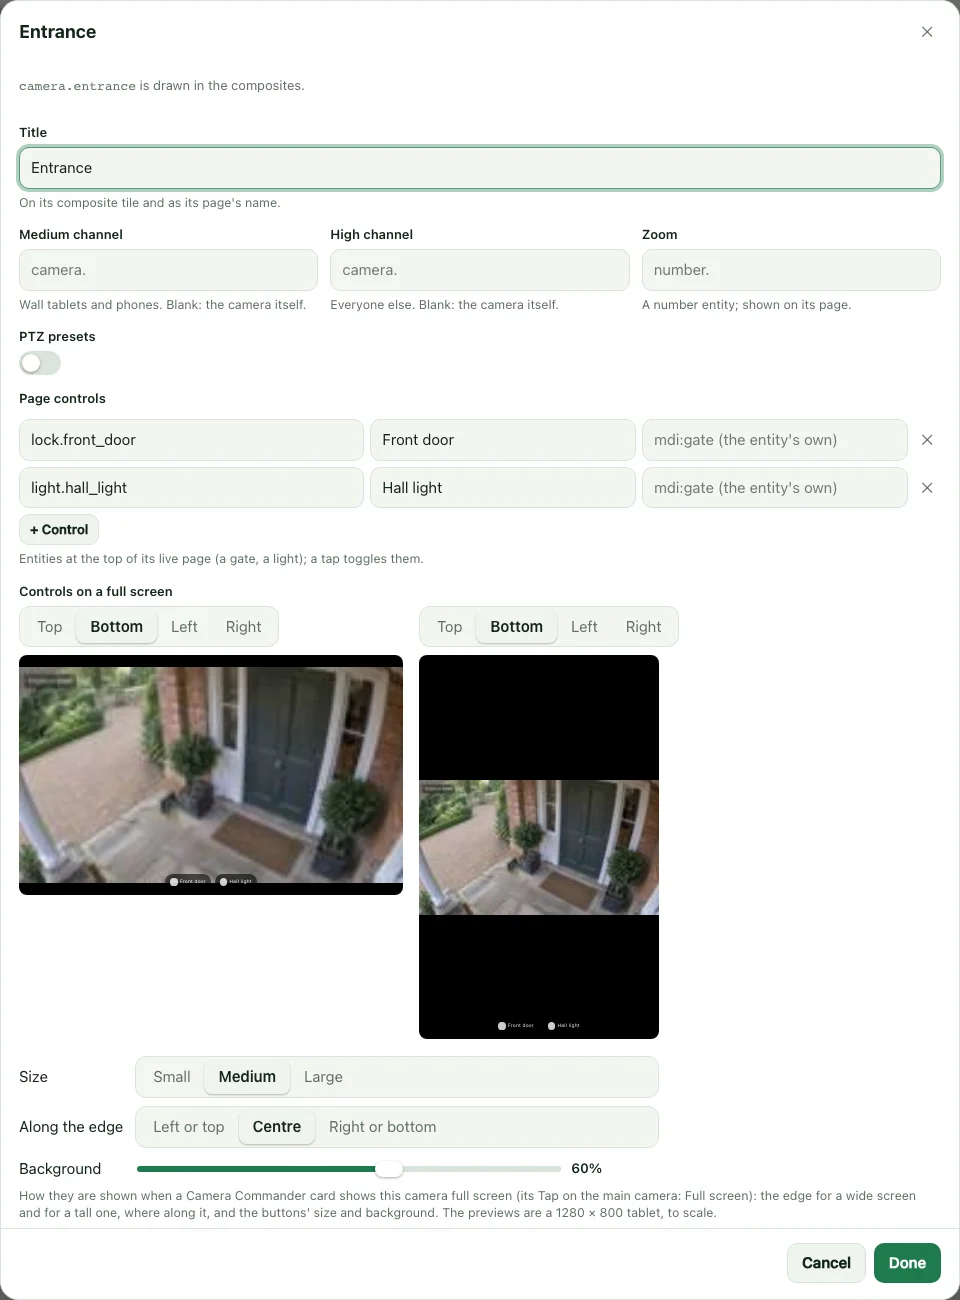
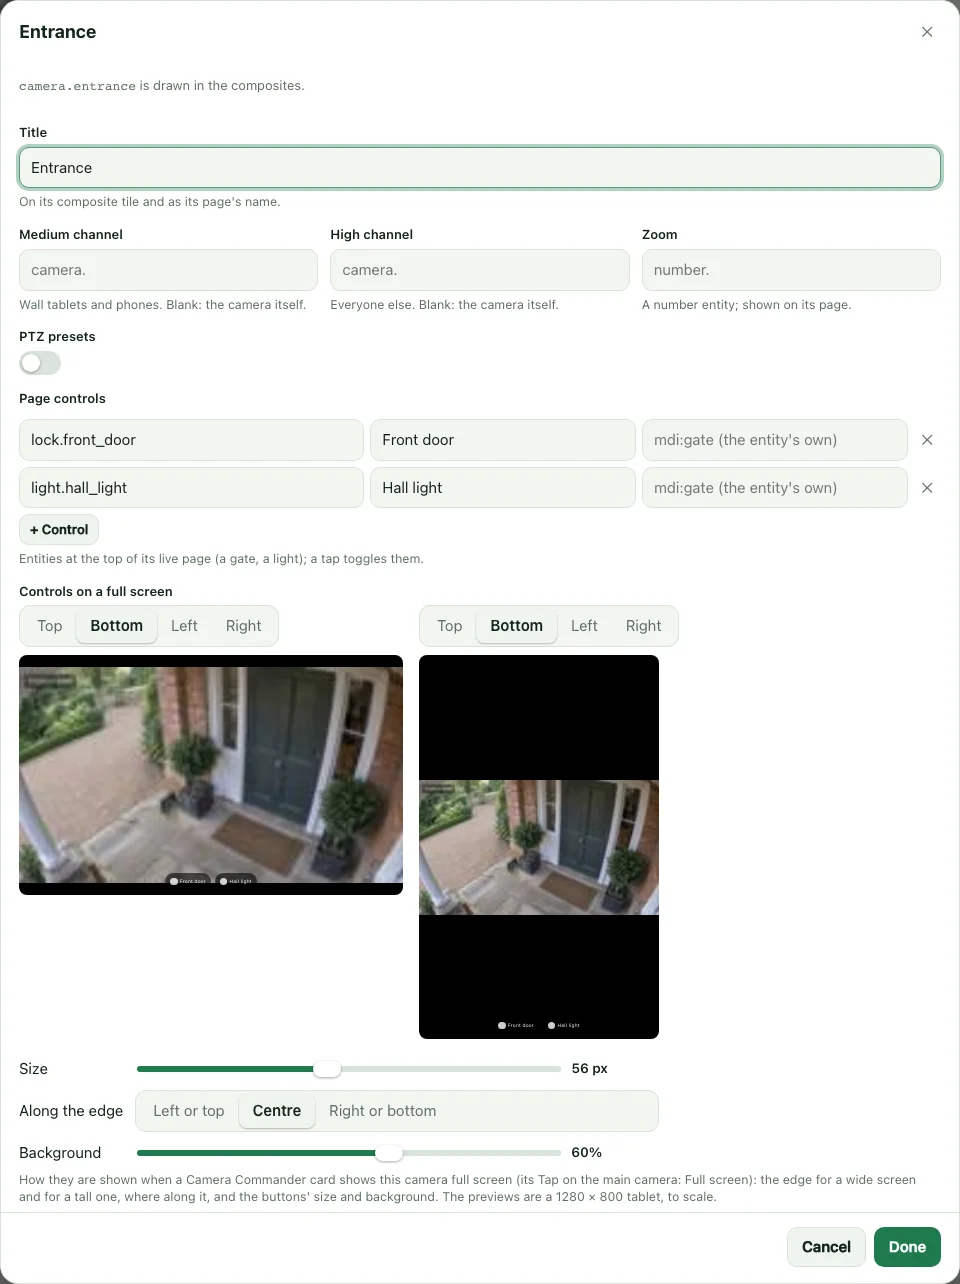
Docs: the Cameras page's Size slider in its screenshot

diff --git a/docs/applets/cameras.md b/docs/applets/cameras.md
@@ -44,7 +44,7 @@ camera sees: the gate it looks at, the lock on the door, a light. Each has its e
 optional name and an optional icon; left blank, the entity's own name and icon are used.
 **+ Control** adds one.
 
-<img src="../screenshots/cameras-controls.webp" alt="Editing the Entrance camera on the Cameras page. Under Page controls are two rows, lock.front_door named Front door and light.hall_light named Hall light, and a + Control button. Under Controls on a full screen are a choice of Top, Bottom, Left or Right for a wide screen and for a tall one, each above a small preview of the camera on that screen with the two buttons along its foot, then Size (Small, Medium, Large), Along the edge (Left or top, Centre, Right or bottom) and a Background slider at 60%" width="480">
+<img src="../screenshots/cameras-controls.webp" alt="Editing the Entrance camera on the Cameras page. Under Page controls are two rows, lock.front_door named Front door and light.hall_light named Hall light, and a + Control button. Under Controls on a full screen are a choice of Top, Bottom, Left or Right for a wide screen and for a tall one, each above a small preview of the camera on that screen with the two buttons along its foot, then a Size slider at 56 px, Along the edge (Left or top, Centre, Right or bottom) and a Background slider at 60%" width="480">
 
 They are shown in three places, and a tap on one is Home Assistant's toggle in each:
 
